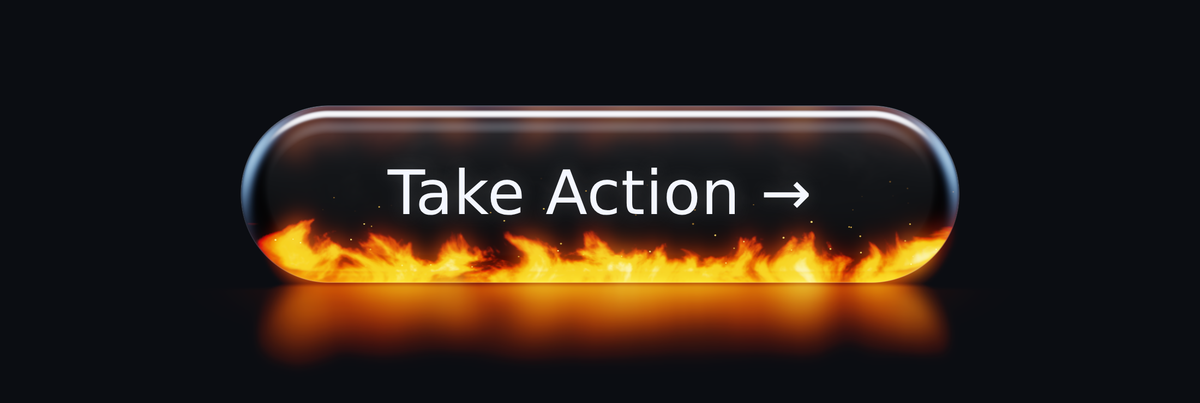
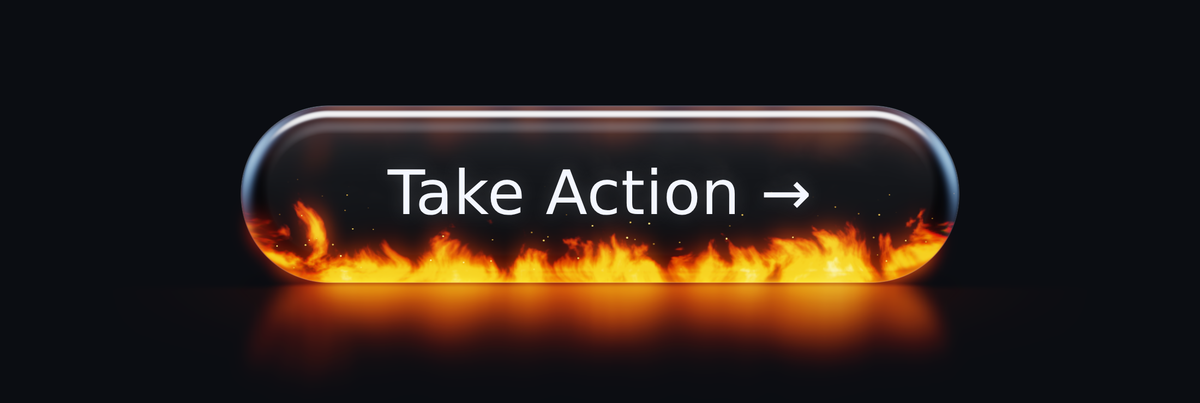
render: composite alpha for gamma-space blending, contact shadow
The browser blends the premultiplied canvas in sRGB-encoded space while the
shader computes linear light, so alpha derived from linear transmission
made light pages far too dark and let the outside glow replace the page
instead of adding to it. Alpha is now chosen so a white page composites to
encode(light + transmission) exactly; black is unchanged. Replace the glow
knee with a blurred-pill contact shadow, occlude the page fully under dense
flame, and darken the default body slightly (glass-opacity 0.86).

diff --git a/src/shaders/composite.frag.ts b/src/shaders/composite.frag.ts
@@ -98,6 +98,14 @@ vec3 linearToSrgb(vec3 c) {
   return mix(12.92 * c, 1.055 * pow(c, vec3(1.0 / 2.4)) - 0.055, step(0.0031308, c));
 }
 
+// Encoded-space weight of the page behind a pixel: the brightness a white
+// page adds on top of our own tonemapped light L (linear), measured after
+// sRGB encoding. Luma-weighted because alpha is a single channel.
+float pageWeight(vec3 L, vec3 encL, float through) {
+  vec3 withPage = linearToSrgb(min(L + vec3(through), vec3(1.0)));
+  return clamp(dot(withPage - encL, vec3(0.2126, 0.7152, 0.0722)), 0.0, 1.0);
+}
+
 // ACES filmic curve (Narkowicz fit). Keeps the fire's hottest values from
 // clipping to flat white and gives the highlights a photographic roll-off.
 vec3 aces(vec3 x) {
@@ -190,7 +198,7 @@ void main() {
   // Inside the pill
   // =====================================================================
   vec3 inside = vec3(0.0);
-  float insideA = 0.0;
+  float throughIn = 0.0;   // linear fraction of the page seen through this pixel
   if (mask > 0.0) {
     // ---- surface normal from the cross-section profile -----------------
     vec2 g = pillGrad(p, halfW);                 // outward, in the screen plane
@@ -266,7 +274,7 @@ void main() {
     vec3 spark = embers(p, fy, t, P_PARTICLES, uEmberColor) * (1.0 + 0.3 * hover);
     // Dense flame is not transparent: it hides the page behind it, which is
     // what keeps the effect saturated over a white surface.
-    float occlusion = 0.85 * fire.a;
+    float occlusion = min(1.0, 1.1 * fire.a);
 
     // ---- 4. the effect illuminating the glass -----------------------------
     // In-scatter in the tinted body above the flames: more glass, more glow.
@@ -289,13 +297,14 @@ void main() {
     // Page visible through this pixel: via the body (attenuated, minus the
     // TIR band and the flame's own occlusion) and via ambient reflection.
     float throughBody = T * transmit * (1.0 - tir) * (1.0 - occlusion);
-    insideA = 1.0 - clamp(throughBody + reflectedPage, 0.0, 1.0);
+    throughIn = clamp(throughBody + reflectedPage, 0.0, 1.0);
   }
 
   // =====================================================================
   // Outside the pill: light leak at the silhouette and the floor glow
   // =====================================================================
   vec3 outside = vec3(0.0);
+  float throughOut = 1.0;  // the page, minus the pill's contact shadow
   if (mask < 1.0) {
     // Light leaking through the edge into the air right beside it.
     vec2 edgeUv = clamp(fireUv, 0.0, 1.0);
@@ -324,25 +333,39 @@ void main() {
     vec2 pf = vec2(p.x / (halfW + 0.05), below / 0.42);
     vec3 pool = avg * exp(-dot(pf, pf) * 2.4) * 0.09 * smoothstep(0.0, 0.05, below);
     outside = (leak + floorRefl + pool) * (1.0 + 0.35 * hover + 0.8 * uPulse) * P_BLOOM;
+    // Contact shadow: a thick object resting on a surface darkens the
+    // surface just beneath it. Modelled as a blurred copy of the pill
+    // shifted down, strongest right under the bottom edge and fading with
+    // distance. Invisible on black; on a light page it grounds the pill and
+    // gives the glow something to tint.
+    float shadowSdf = pillSdf(p - vec2(0.0, 0.10), halfW);
+    float ao = 0.45 * (1.0 - smoothstep(-0.02, 0.42, shadowSdf)) * smoothstep(0.12, -0.08, fy);
+    throughOut = 1.0 - ao;
     // Fade to nothing before the canvas edge so the glow never shows a hard
     // rectangular cut, whatever padding the element chose.
     vec2 edgePx = min(gl_FragCoord.xy, uRes - gl_FragCoord.xy) / uPillSize.y;
     float edgeFade = smoothstep(0.0, 0.35, min(edgePx.x, edgePx.y));
     outside *= edgeFade;
+    throughOut = 1.0 - ao * edgeFade;
   }
 
   // ---- combine ------------------------------------------------------------
-  vec3 inCol = linearToSrgb(aces(inside));
-  vec3 outCol = linearToSrgb(aces(outside));
-  float outA = max(outCol.r, max(outCol.g, outCol.b));   // additive glow over the page
-  // Soft knee: sRGB encoding lifts near-zero glow to a few percent, which
-  // reads as a grey haze rectangle on light pages. Fade the faintest glow
-  // out entirely (and its colour with it, keeping premultiplication intact).
-  float knee = smoothstep(0.0, 0.14, outA);
-  outCol *= knee;
-  outA *= knee;
-  vec3 rgb = inCol * mask + outCol * (1.0 - mask);
-  float alpha = insideA * mask + outA * (1.0 - mask);
+  // The browser composites this premultiplied canvas in sRGB-encoded space:
+  //   displayed = rgb + page_encoded * (1 - alpha).
+  // Our light L is linear. The page term must therefore be expressed in
+  // encoded space too, otherwise a body passing 17% of the page's light
+  // would show 17% of its *encoded* value (about 3% of its light) and light
+  // pages come out far too dark. Choosing alpha so that a white page gives
+  // exactly encode(L + through) makes the blend right on white, identical to
+  // before on black, and a sensible interpolation in between.
+  vec3 Lin = aces(inside);
+  vec3 Lout = aces(outside);
+  vec3 encIn = linearToSrgb(Lin);
+  vec3 encOut = linearToSrgb(Lout);
+  float alphaIn = 1.0 - pageWeight(Lin, encIn, throughIn);
+  float alphaOut = 1.0 - pageWeight(Lout, encOut, throughOut);
+  vec3 rgb = encIn * mask + encOut * (1.0 - mask);
+  float alpha = alphaIn * mask + alphaOut * (1.0 - mask);
   fragColor = vec4(rgb, alpha);
 }
 `;

diff --git a/src/params.ts b/src/params.ts
@@ -40,7 +40,7 @@ export const PARAM_DEFS: readonly ParamDef[] = [
   { name: 'level', attr: 'level', def: 1, min: 0, max: 2.5, label: 'How high the effect reaches: flame height or water level' },
   { name: 'turbulence', attr: 'turbulence', def: 1, min: 0, max: 3, label: 'Turbulence: curl of the flames or wave amplitude' },
   { name: 'speed', attr: 'speed', def: 1, min: 0, max: 4, label: 'Time scale of the effect' },
-  { name: 'glassOpacity', attr: 'glass-opacity', def: 0.82, min: 0, max: 1, label: 'Darkness of the glass body' },
+  { name: 'glassOpacity', attr: 'glass-opacity', def: 0.86, min: 0, max: 1, label: 'Darkness of the glass body' },
   { name: 'glassThickness', attr: 'glass-thickness', def: 1, min: 0.2, max: 3, label: 'Curvature and width of the edge zone' },
   { name: 'refraction', attr: 'refraction', def: 1, min: 0, max: 3, label: 'Distortion of the effect through the curved edge' },
   { name: 'bloom', attr: 'bloom', def: 1, min: 0, max: 3, label: 'Bloom and light leak' },

diff --git a/tests/glass-button.test.ts b/tests/glass-button.test.ts
@@ -78,15 +78,15 @@ describe('parameters', () => {
     expect(Object.keys(el.params)).toHaveLength(11);
     el.params = { speed: 2 };
     expect(el.speed).toBe(2);
-    expect(el.glassOpacity).toBe(0.82);
+    expect(el.glassOpacity).toBe(0.86);
     expect(el.getAttribute('speed')).toBe('2');
   });
 
   it('exposes a defensive copy of the defaults', () => {
     const d = GlassButton.defaults;
-    expect(d.glassOpacity).toBe(0.82);
+    expect(d.glassOpacity).toBe(0.86);
     d.glassOpacity = 0;
-    expect(GlassButton.defaults.glassOpacity).toBe(0.82);
+    expect(GlassButton.defaults.glassOpacity).toBe(0.86);
   });
 });
 

diff --git a/tests/ssr.test.ts b/tests/ssr.test.ts
@@ -13,6 +13,6 @@ describe('import without a DOM', () => {
     const mod = await import('../src/glass-button');
     expect(typeof mod.GlassButton).toBe('function');
     expect(mod.STATUS_NAMES).toContain('healthy');
-    expect(mod.GlassButton.defaults.glassOpacity).toBe(0.82);
+    expect(mod.GlassButton.defaults.glassOpacity).toBe(0.86);
   });
 });

diff --git a/tests/params.test.ts b/tests/params.test.ts
@@ -6,7 +6,7 @@ describe('params', () => {
     const d = defaults();
     expect(Object.keys(d)).toHaveLength(11);
     expect(PARAM_ATTRS).toHaveLength(11);
-    expect(d.glassOpacity).toBe(0.82);
+    expect(d.glassOpacity).toBe(0.86);
     expect(d.intensity).toBe(1);
   });
 

diff --git a/README.md b/README.md
@@ -222,7 +222,7 @@ below.
 | `level` | `level` | 1.0 | 0–2.5 | Flame height or water level |
 | `turbulence` | `turbulence` | 1.0 | 0–3 | Curl of the flames or wave amplitude |
 | `speed` | `speed` | 1.0 | 0–4 | Time scale of the effect |
-| `glass-opacity` | `glassOpacity` | 0.82 | 0–1 | Darkness of the glass body over the page |
+| `glass-opacity` | `glassOpacity` | 0.86 | 0–1 | Darkness of the glass body over the page |
 | `glass-thickness` | `glassThickness` | 1.0 | 0.2–3 | Curvature and width of the rounded edge zone |
 | `refraction` | `refraction` | 1.0 | 0–3 | Distortion of the effect through the curved edge |
 | `bloom` | `bloom` | 1.0 | 0–3 | Bloom, light leak and floor glow |
@@ -303,8 +303,15 @@ height so the look is identical at any size:
    - *Illumination of the glass by the effect*: warm Fresnel rim along the
      bottom and ends, in-scatter that grows with thickness, and a faint
      mirror of the fire on the upper inner face.
-   Outside the pill: light leak at the silhouette and a mirrored floor
-   reflection. ACES tonemap, sRGB encode.
+   Outside the pill: light leak at the silhouette, a mirrored floor
+   reflection and a soft contact shadow. ACES tonemap, sRGB encode.
+
+   Compositing note: the browser blends the premultiplied canvas over the
+   page in sRGB-encoded space, while the shader works in linear light. Alpha
+   is therefore not the linear transmission directly; it is chosen so that a
+   white page composites to exactly `encode(light + transmission)`, which
+   keeps the pill identical on black and physically right on white instead
+   of far too dark.
 
 Shader sources are in `src/shaders/` and are commented for modification.
 
